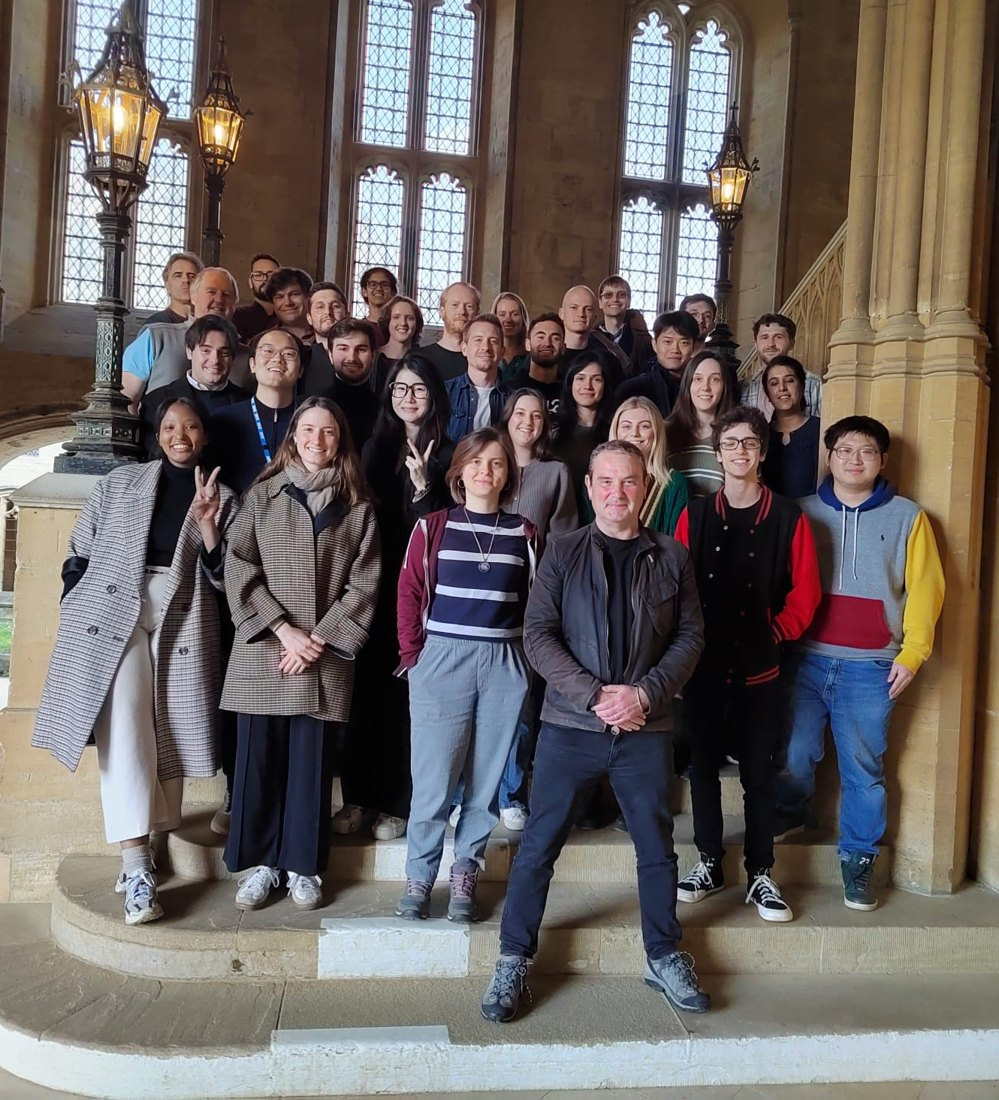
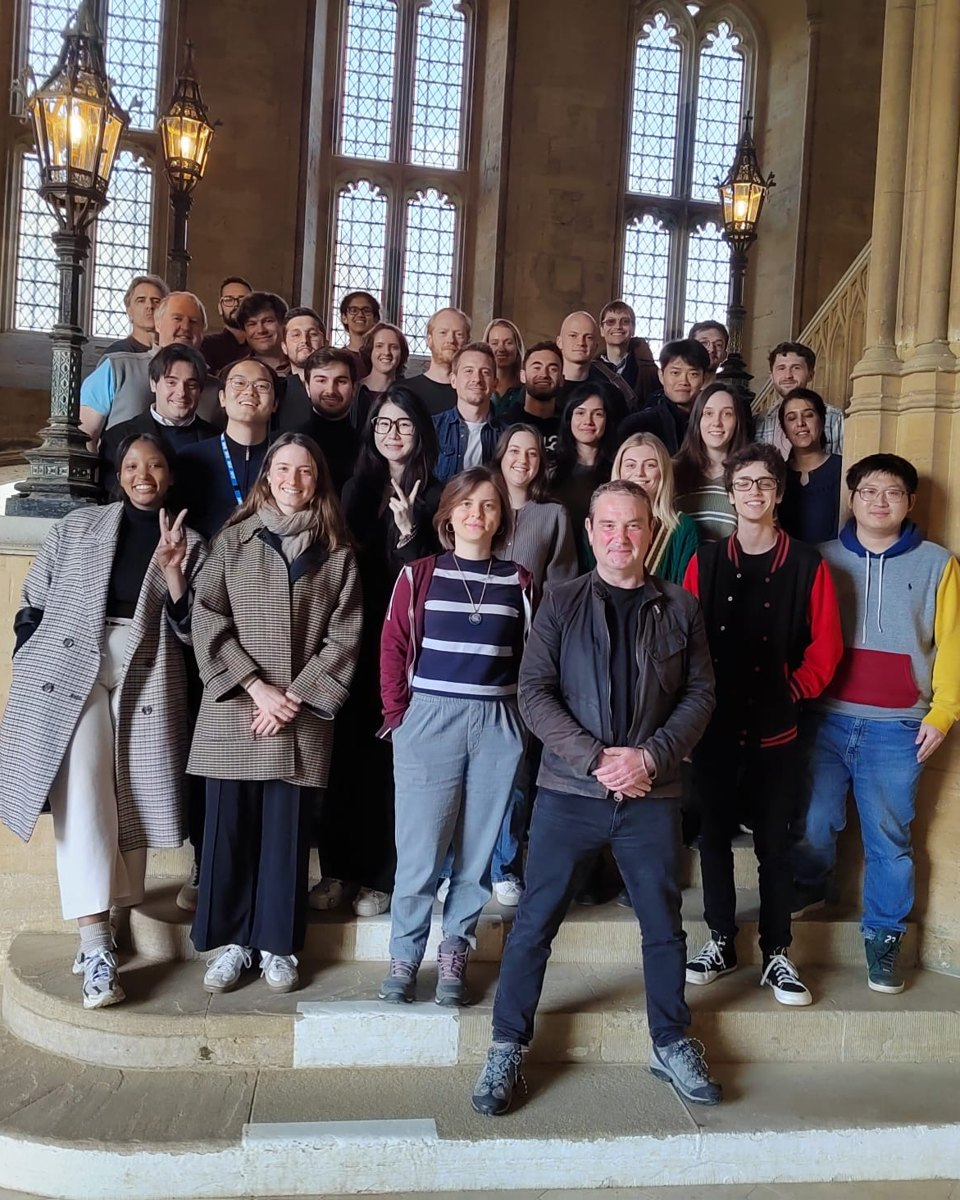
Experience photos: all 4:5, not clickable; King's graduation photo
Re-cropped the Oxford, PhD and King's photos to 4:5 from the originals;
the King's 2018-2019 row now shows the graduation photo instead of the
lab-coat one; removed click-to-open.

diff --git a/src/data/profile.ts b/src/data/profile.ts
@@ -1,5 +1,5 @@
 import phdPhoto from '../assets/career/phd-manchester.jpg';
-import kclPhoto from '../assets/career/kcl-lab.jpg';
+import kclPhoto from '../assets/career/kcl-graduation.jpg';
 import oxfordPhoto from '../assets/career/oxford-group.jpg';
 
 // Everything about you that appears around the site.
@@ -47,7 +47,7 @@ export type TimelineItem = { title: string; org: string; dates?: string };
 // `links` are optional extra links (site paths without a leading slash, or full URLs).
 export type Highlight = { title: string; text: string; tag?: string };
 // `photo` is an optional picture from that time of your career (put it in src/assets/career/,
-//   import it at the top of this file) with `photoAlt` describing it.
+//   cropped to 4:5, and import it at the top of this file) with `photoAlt` describing it.
 export type ExperienceItem = TimelineItem & {
   place: string;
   label?: string;
@@ -188,7 +188,7 @@ export const experience: ExperienceItem[] = [
     place: "King's College London",
     dates: 'Jan 2018 – Jan 2019',
     photo: kclPhoto,
-    photoAlt: "Kristian in a lab coat during his time as a research associate at King's College London",
+    photoAlt: "Kristian in graduation gown and hood at his King's College London graduation",
     summary:
       'My MRes project, continued as a research assistant: mostly lab work, with my first steps in computational analysis.',
     highlights: [
